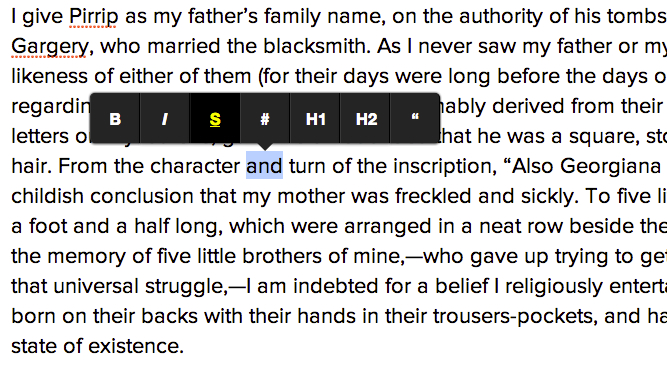
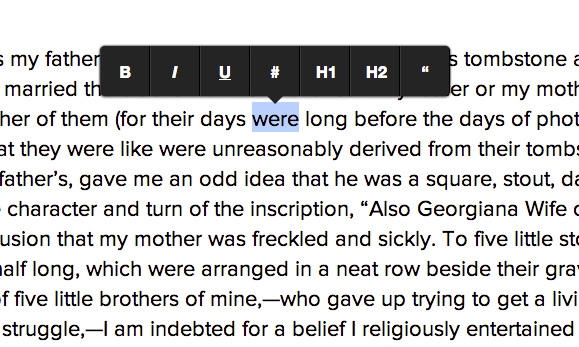
Updates screenshot and README

diff --git a/README.md b/README.md
@@ -61,7 +61,7 @@ var editor = new MediumEditor('.editable', {
     diffTop: 10,
     firstHeader: 'h1',
     secondHeader: 'h2',
-    excludedActions: ['q', 's'],
+    excludedActions: ['q', 'u'],
     delay: 1000
 });
 ```
